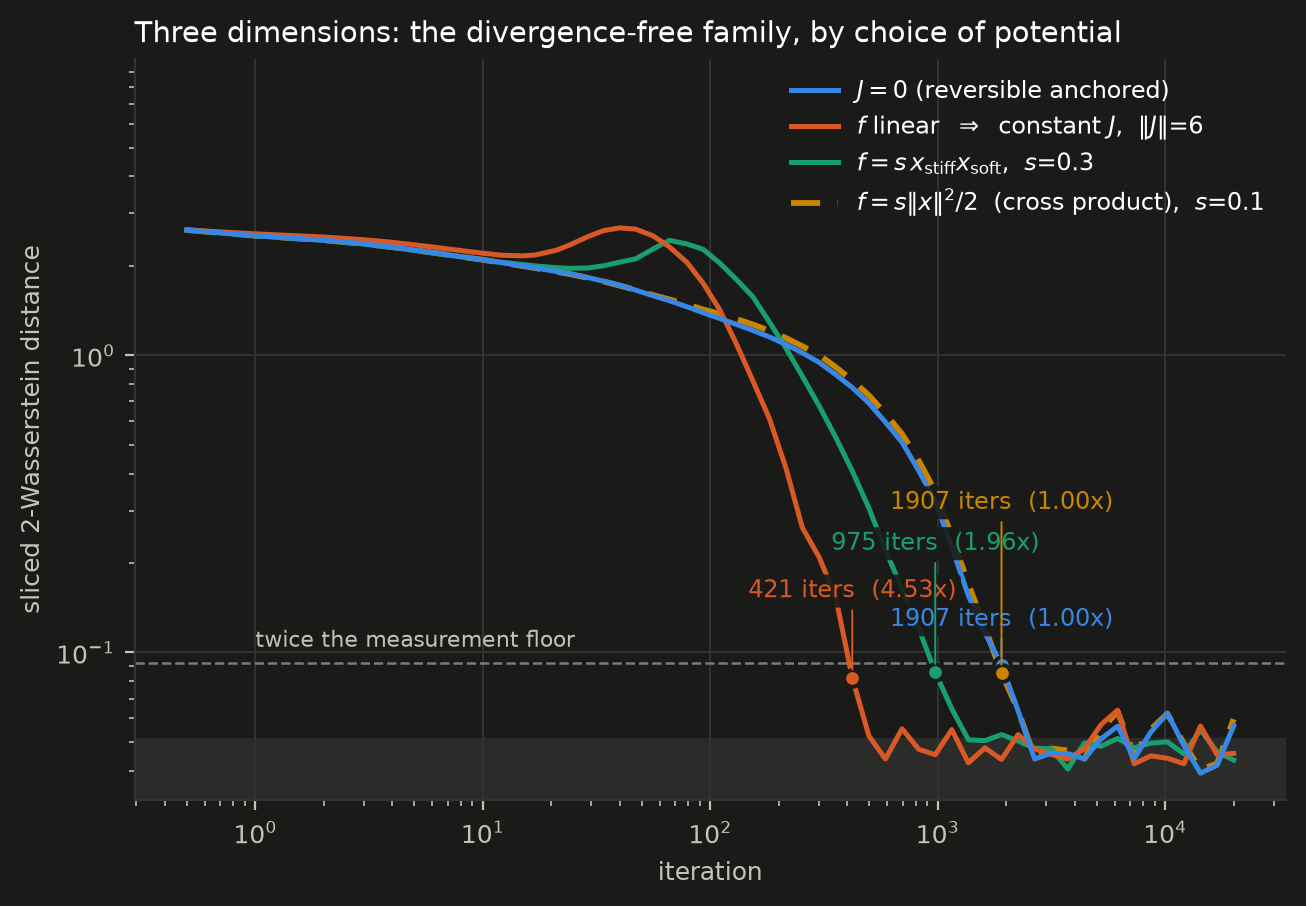
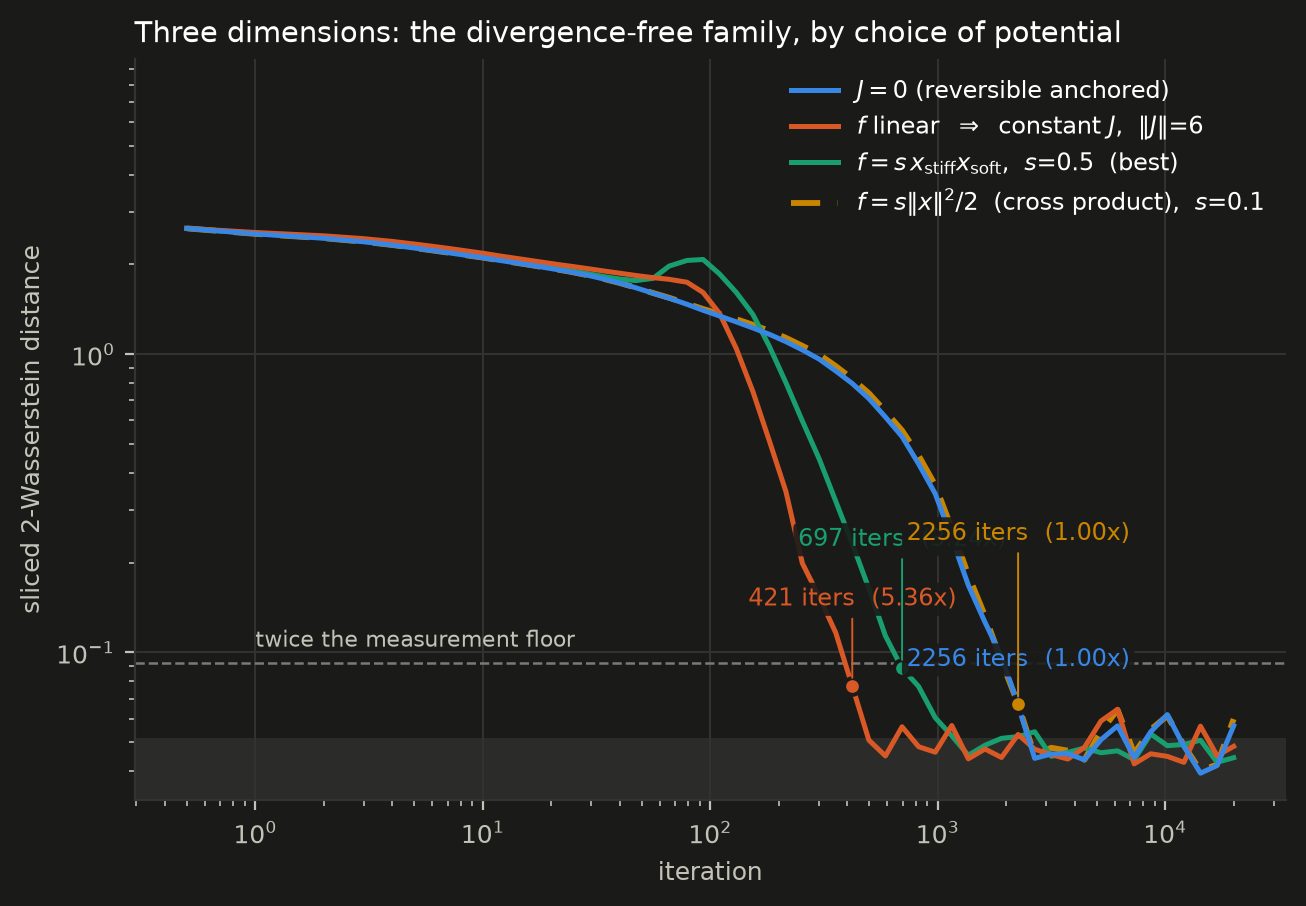
Retract the d=3 result of the previous commit: it was a seed artefact
The previous commit reported f = s x_stiff x_soft at s=1 converging in 301
iterations, 7.50x, beating the constant field. That is wrong and this commit
withdraws it. Two defects in the protocol produced it, both now fixed in
exp10.

1. Averaging replications with nanmean keeps the mean finite as long as ONE
   chain survives. A field diverging in four runs out of five was reported as
   converged, at whatever iteration the survivor reached the floor. Every run
   now counts divergences and a field counts as converged only if all five
   replications are.

2. The equal-accuracy stepsize is calibrated against exact draws, from
   stationarity. The run itself starts from a prior ten times too wide, and a
   field can be stable at stationarity and blow up on that transient -- which
   reads as "the field diverges" when what diverged is that stepsize. The
   stepsize now backs off until every replication survives, and the row
   records the ratio. The fallback is smaller than the equal-accuracy value,
   hence more accurate, so a backed-off field is charged the extra iterations
   and given no credit for the extra accuracy.

Checked against three disjoint seed sets: at the stepsize that produced the
301, s=1 diverges in 5 replications of 5 in every one of them. s=0.7, 0.8 and
0.9 diverge in 1 to 5 of 5. The single seed set exp10 used happened to have
survivors.

Corrected d=3 table, every row 0/5 diverged:

    f linear (= constant J), |J|=6      421 iters   5.36x
[…]

diff --git a/experiments/exp10_curl_potentials.py b/experiments/exp10_curl_potentials.py
@@ -46,7 +46,13 @@ matching the stationary error of the 50th, 70th and 90th percentiles of
 2 % stationary covariance bias of the exact analysis.  The stepsize search is
 adaptive, halving the probe until the measurement is finite, so a field is never
 reported as divergent merely because the first stepsize tried was too large.
-All fields carry the warm-up ramp.
+All fields carry the warm-up ramp, ten relaxations of the fastest direction by
+default -- in ``d = 3`` that removes the transient overshoot completely and
+costs no iterations, and it is what rescues the larger ``s``, whose divergences
+at a shorter ramp came from the wide prior rather than from stationarity.
+
+The overshoot itself is not stored: the curves and the floor are, so
+``metrics.transient_rise(row["w2"], meta["floor"])`` recovers it exactly.
 """
 
 import argparse
@@ -179,28 +185,66 @@ def main():
             if np.isfinite(qbias(make(field(kind, mag), eta))):
                 break
             eta *= 0.4
-        curves = []
-        for r in range(args.reps):
-            x = runner.make_prior("normal10", 3, args.n, np.random.default_rng(500 + r))
-            st = make(field(kind, mag), eta)()
-            rr = np.random.default_rng(9000 + r)
-            w, k = [], 0
-            for tk in record_at:
-                while k < tk:
-                    x = st(x, rr)
-                    k += 1
-                    if not np.all(np.isfinite(x)):
+
+        def ensemble(eta):
+            """Curves from the wide prior, and how many replications blew up.
+
+            The count is not decoration.  Averaging the replications with
+            ``nanmean`` keeps the mean finite as long as *one* chain survives,
+            so a field that diverges in two runs out of five would otherwise be
+            reported as converged, at whatever iteration the survivors reached
+            the floor.  A field is only stable here if every replication is.
+            """
+            curves, diverged = [], 0
+            for r in range(args.reps):
+                x = runner.make_prior("normal10", 3, args.n,
+                                      np.random.default_rng(500 + r))
+                st = make(field(kind, mag), eta)()
+                rr = np.random.default_rng(9000 + r)
+                w, k, blew = [], 0, False
+                for tk in record_at:
+                    while k < tk:
+                        x = st(x, rr)
+                        k += 1
+                        if not np.all(np.isfinite(x)):
+                            blew = True
+                            break
+                    w.append(metrics.axis_sliced_w2(x, T))
+                    if blew:
                         break
-                w.append(metrics.axis_sliced_w2(x, T))
-            curves.append(w)
-        w = np.nanmean(curves, axis=0)
+                diverged += int(blew)
+                curves.append(w + [np.nan] * (len(record_at) - len(w)))
+            return np.nanmean(curves, axis=0), diverged
+
+        # The stepsize above equalises *stationary* accuracy, measured from
+        # exact draws.  The run itself starts from a prior ten times too wide,
+        # and a field can be stable at stationarity yet blow up on that
+        # transient -- which would be reported as "the field diverges" when
+        # what diverged is this particular stepsize.  So back off until the run
+        # survives.  The fallback stepsize is *smaller* than the equal-accuracy
+        # one, hence more accurate, so the comparison stays conservative for
+        # that field: it is charged the extra iterations and given no credit
+        # for the extra accuracy.  ``eta_ratio`` in the output records it.
+        eta_equal = eta
+        w, div = ensemble(eta)
+        for _ in range(5):
+            if div == 0 and np.all(np.isfinite(w)):
+                break
+            eta *= 0.4
+            w, div = ensemble(eta)
+
         it = np.asarray(record_at)
-        hit = int(it[np.argmax(w <= 2 * floor)]) if (w <= 2 * floor).any() else -1
+        ok = np.isfinite(w) & (w <= 2 * floor)
+        hit = int(it[np.argmax(ok)]) if ok.any() and div == 0 else -1
         rows.append({"label": label, "kind": kind, "mag": mag, "eta": eta,
+                     "eta_equal_accuracy": eta_equal, "eta_ratio": eta / eta_equal,
+                     "diverged": div, "reps": args.reps,
                      "iters": hit, "final": float(w[-1]),
                      "w2": np.asarray(w).tolist(), "rec": record_at})
+        backed = "" if eta == eta_equal else f" [backed off {eta_equal / eta:.1f}x]"
         print(f"  {label:40s} eta={eta:.2e} iters={hit:6d} final_W2={w[-1]:.4f}"
-              f"  ({time.time() - t0:.0f}s)", flush=True)
+              f" diverged={div}/{args.reps}{backed}  ({time.time() - t0:.0f}s)",
+              flush=True)
 
     evaluate("J = 0", "zero", 0.0)
     evaluate(f"f linear  (= constant J), |J|={args.jnorm:g}", "linear", args.jnorm)

diff --git a/experiments/make_figures.py b/experiments/make_figures.py
@@ -410,11 +410,11 @@ def fig_curl_potentials(mode):
     rows = blob["rows"] if isinstance(blob, dict) else blob   # older files are bare lists
     keep = ["J = 0",
             "f linear  (= constant J), |J|=6",
-            "f = s x_stiff x_soft, s=0.3",
+            "f = s x_stiff x_soft, s=0.5",
             "f = |x|^2/2  (yours), s=0.1"]
     pretty = {keep[0]: "$J = 0$ (reversible anchored)",
               keep[1]: "$f$ linear  $\\Rightarrow$  constant $J$,  $\\|J\\|$=6",
-              keep[2]: "$f = s\\,x_{\\rm stiff}x_{\\rm soft}$,  $s$=0.3",
+              keep[2]: "$f = s\\,x_{\\rm stiff}x_{\\rm soft}$,  $s$=0.5  (best)",
               keep[3]: "$f = s\\|x\\|^2/2$  (cross product),  $s$=0.1"}
     sel = [r for k in keep for r in rows if r["label"] == k]
     if len(sel) < 2:
